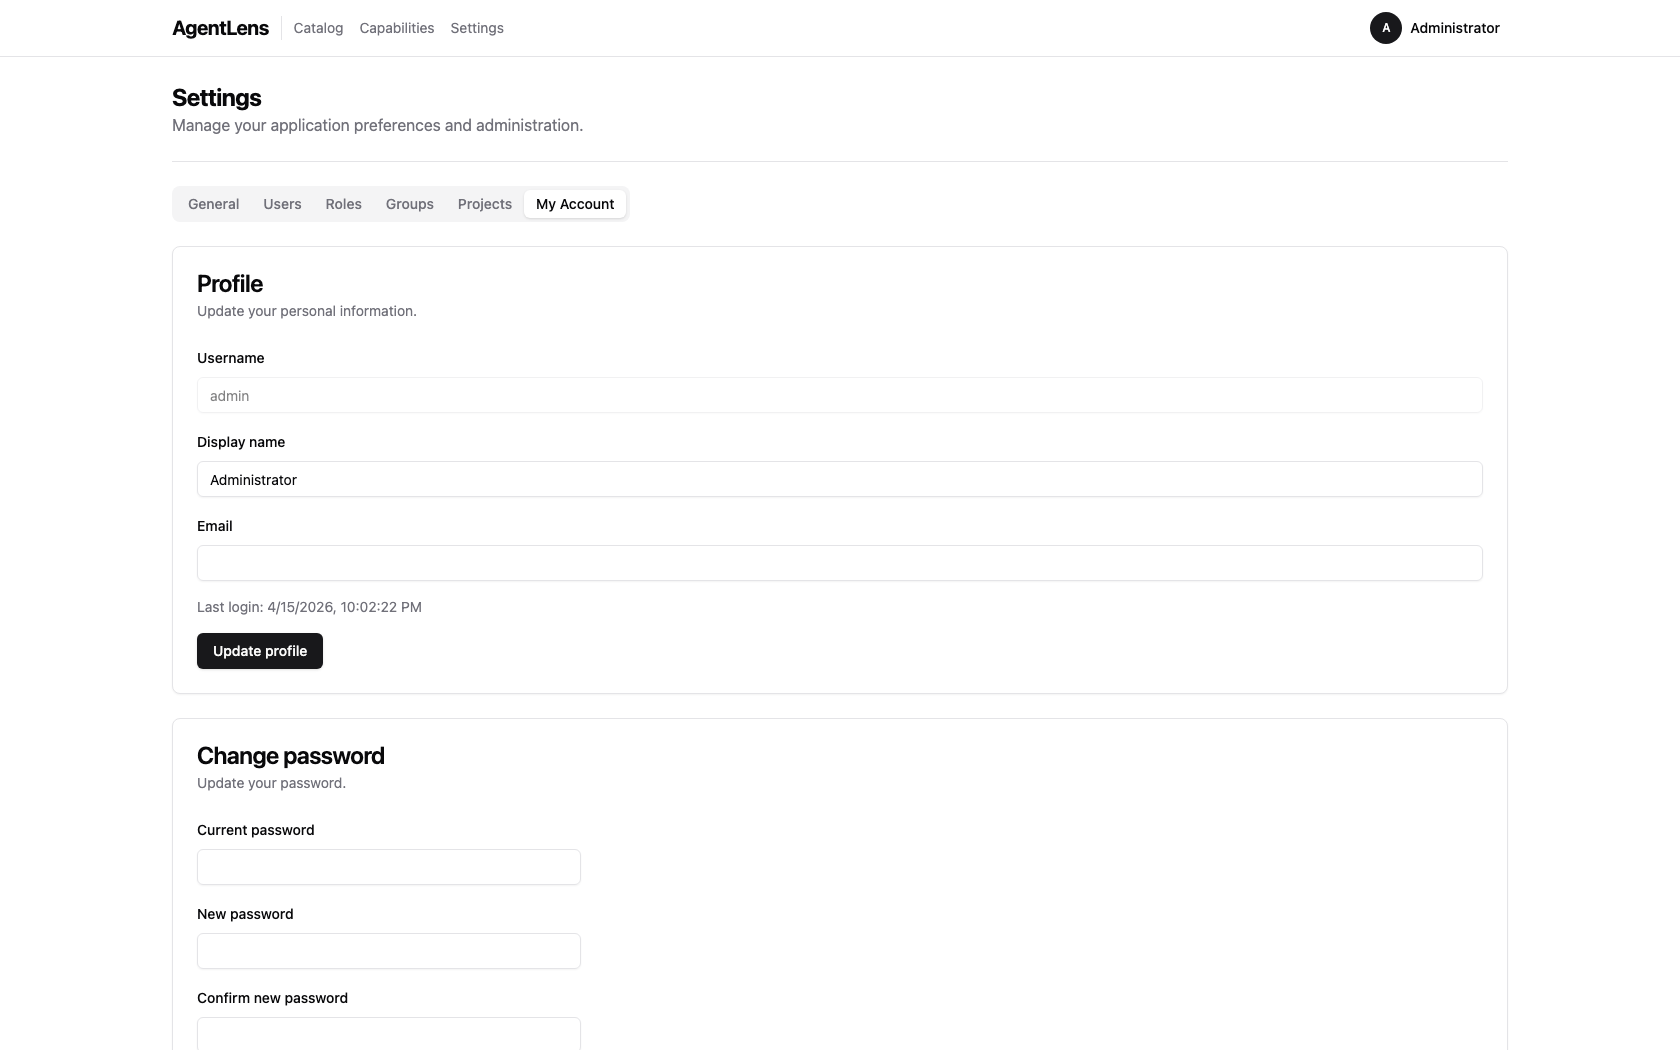
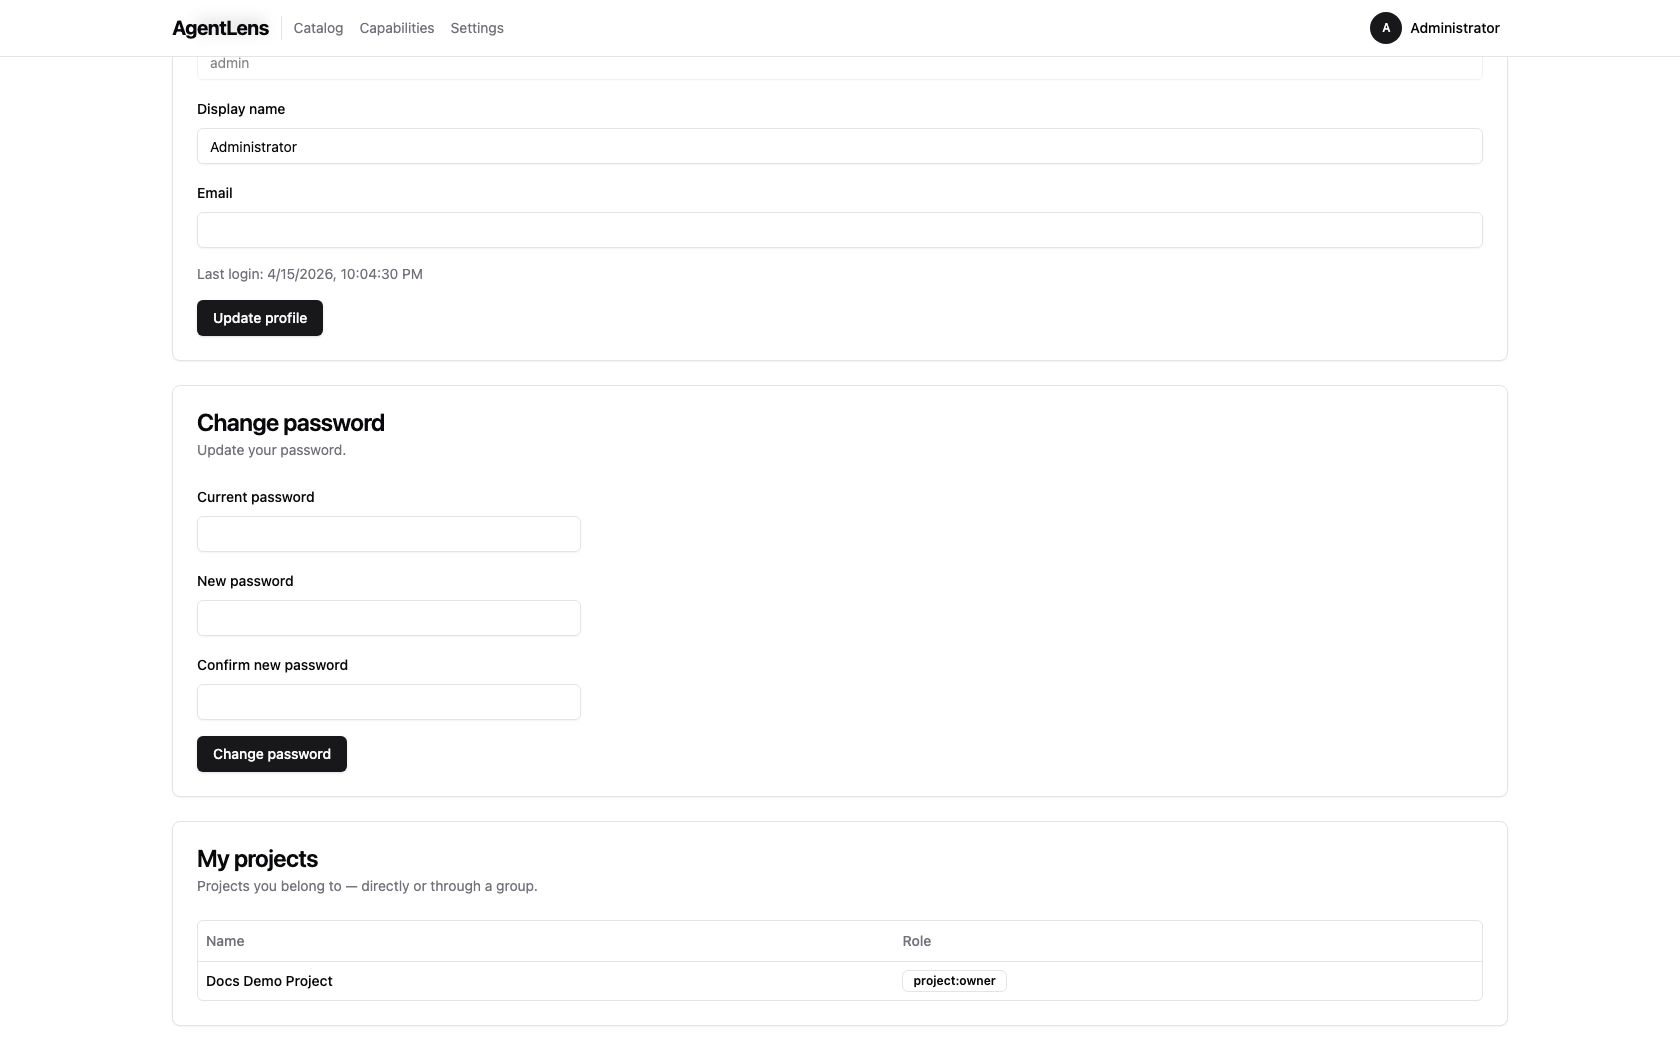
fix(docs): scroll My projects into view before screenshot
The card sits below Profile + Change password and was off-frame in
the 1050px viewport. scrollIntoViewIfNeeded() before capture brings
it into the screenshot.

diff --git a/e2e/tests/docs-screenshots.spec.ts b/e2e/tests/docs-screenshots.spec.ts
@@ -964,6 +964,9 @@ test.describe('Documentation Screenshots', () => {
     await page.goto('/settings');
     await page.getByRole('tab', { name: /my account/i }).click();
     await page.waitForLoadState('networkidle');
+    // Scroll the My projects card into view — it sits below the Profile
+    // and Change password cards, off the initial 1050px viewport.
+    await page.getByRole('heading', { name: /^my projects$/i }).scrollIntoViewIfNeeded();
     await page.screenshot({ path: `${DOCS_IMAGES}/my-account-projects.png`, fullPage: false });
   });
 });
